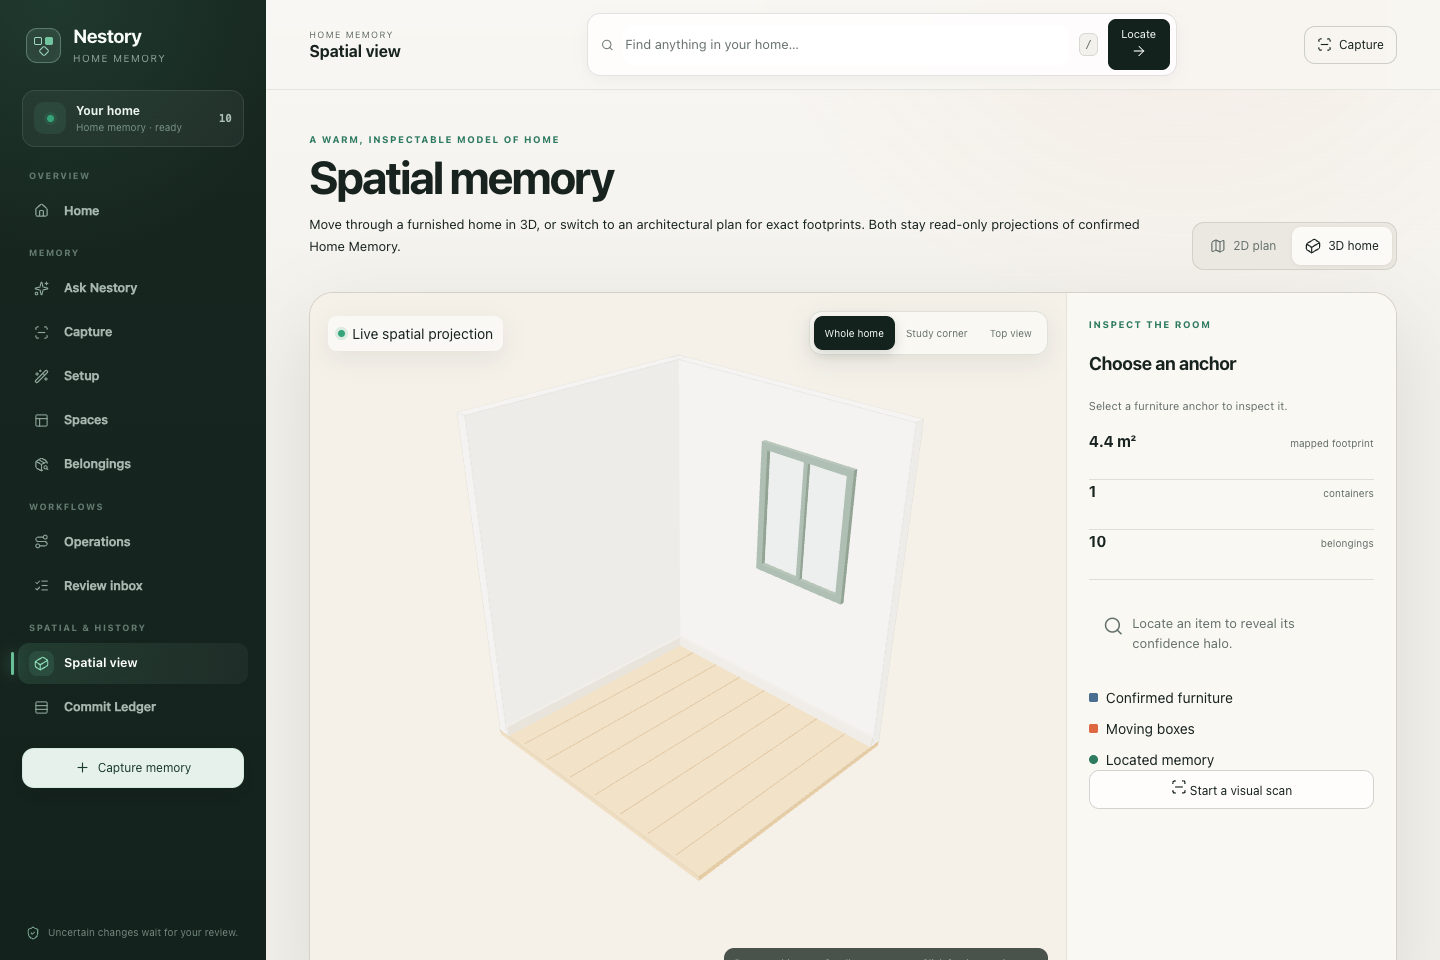
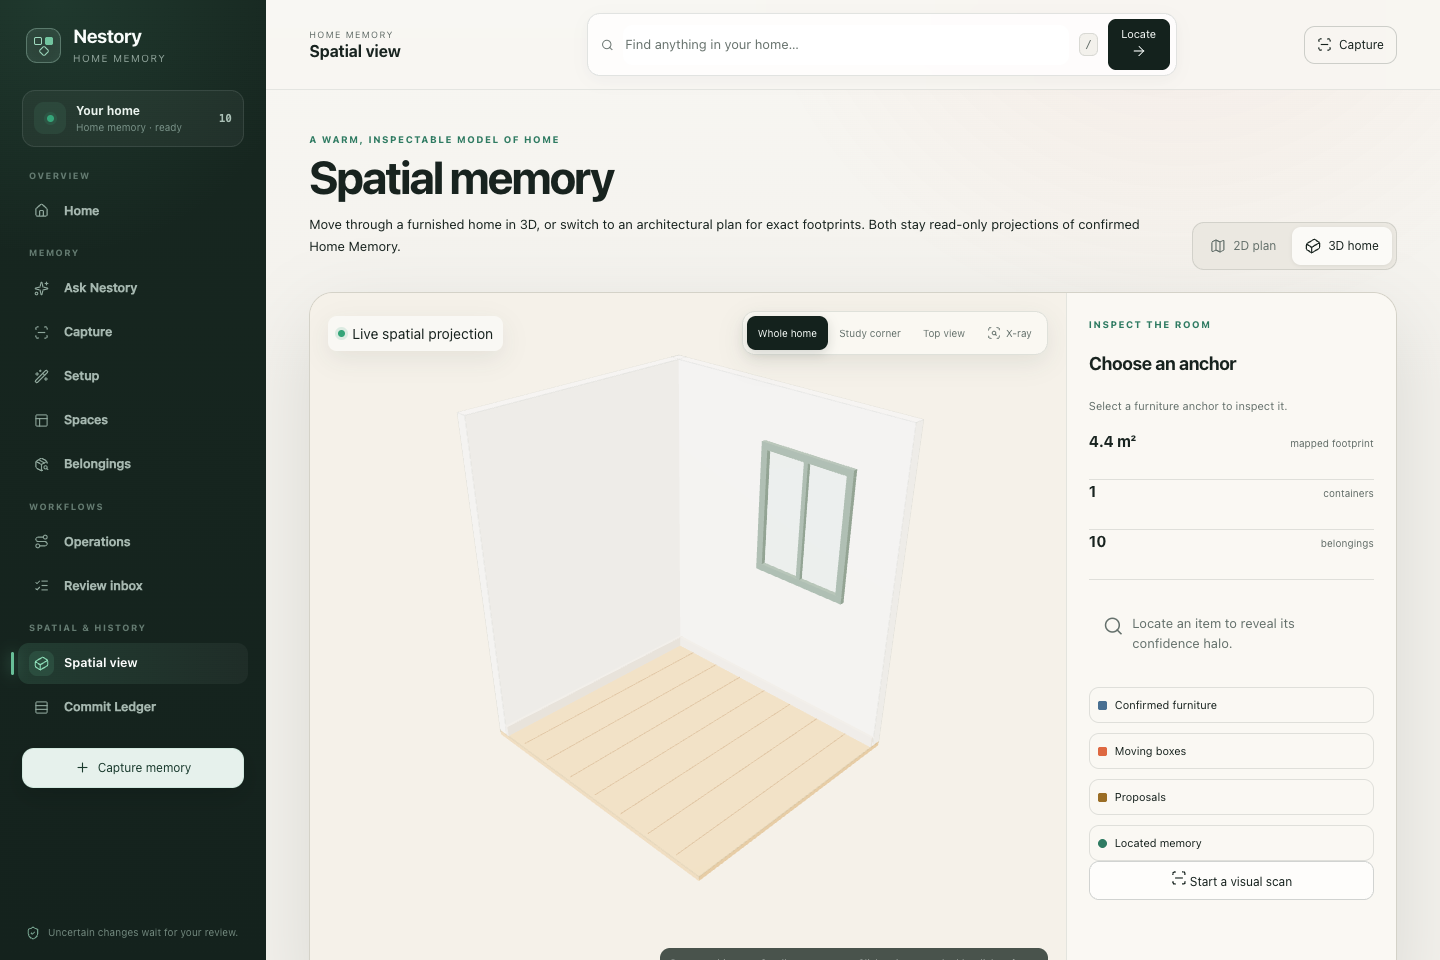
feat(spatial): layer visibility toggles + X-ray transparency (ticket 05)
Parent scene content into furniture/boxes/proposals/pin Groups. The inspector
legend is now functional toggle buttons (spatial-layer command flips
group.visible); a new X-ray button (spatial-xray command) drops wall + furniture
opacity for a see-through review model. Both are view-local UI state
(ui.spatialLayers / ui.spatialXray), never Store writes and never in the scene
payload; each toggle fires one scheduleRender and re-quiesces to zero RAF.

Telemetry: data-spatial-layer-<name>, data-spatial-xray. Uses the in-subset
scan-search lucide icon.
verify 468/468 (2 new: layer hides group, x-ray changes transparency; RAF still 0).

diff --git a/prototype-v2/src/spatial.ts b/prototype-v2/src/spatial.ts
@@ -818,19 +818,29 @@ export function mountSpatialScene(container: HTMLElement, data: SpatialSceneData
   const { solid: solidObjects, proposals: proposalObjects } = sceneObjects(data);
   renderer.domElement.dataset.spatialLabelSize = proposalObjects.length ? `${LABEL_TEXTURE_WIDTH}x${LABEL_TEXTURE_HEIGHT}` : "0x0";
 
+  // Parented layer groups so the inspector legend can toggle whole layers on/off.
+  // View-local visibility only — never Place Graph truth, never in the scene payload.
+  const furnitureLayer = new Group(); furnitureLayer.name = "layer:furniture";
+  const boxLayer = new Group(); boxLayer.name = "layer:boxes";
+  const proposalLayer = new Group(); proposalLayer.name = "layer:proposals";
+  const pinLayer = new Group(); pinLayer.name = "layer:pin";
+  content.add(furnitureLayer, boxLayer, proposalLayer, pinLayer);
+  const layerGroups: Record<string, Group> = { furniture: furnitureLayer, boxes: boxLayer, proposals: proposalLayer, pin: pinLayer };
+
   const furnitureMaterials = createFurnitureMaterials();
   const interactiveMeshes: Mesh[] = [];
   const objectRoots = new Map<string, Group>();
   const objectData = new Map(solidObjects.map((object) => [object.id, object]));
   const archetypes = new Set<SpatialArchetype>();
   for (const object of solidObjects) {
-    const built = addSpatialObject(content, object, furnitureMaterials);
+    const layer = object.kind === "box" ? boxLayer : furnitureLayer;
+    const built = addSpatialObject(layer, object, furnitureMaterials);
     interactiveMeshes.push(...built.interactiveMeshes);
     objectRoots.set(object.id, built.root);
     archetypes.add(object.archetype ?? (object.kind === "box" ? "box" : "block"));
   }
-  for (const proposal of proposalObjects) addProposalObject(content, proposal);
-  if (data.pin) addPin(content, data.pin);
+  for (const proposal of proposalObjects) addProposalObject(proposalLayer, proposal);
+  if (data.pin) addPin(pinLayer, data.pin);
   renderer.domElement.dataset.spatialArchetypes = [...archetypes].sort().join(",");
 
   const gridSize = Math.max(4, Math.ceil(Math.max(size.x, size.z) + 2));
@@ -1174,16 +1184,63 @@ export function mountSpatialScene(container: HTMLElement, data: SpatialSceneData
     container.dispatchEvent(new CustomEvent<SpatialViewPreset>("spatial-preset-change", { bubbles: true, detail: preset }));
   };
 
+  // X-ray: drop wall + furniture/box opacity so the user can see through the
+  // dollhouse to boxes/items behind near walls. Pure render-state, one flag.
+  let xrayOn = false;
+  const setXray = (on: boolean): void => {
+    if (on === xrayOn) return;
+    xrayOn = on;
+    const apply = (root: Object3D, opacity: number, matchWallsOnly: boolean): void => {
+      root.traverse((node: Object3D) => {
+        const mesh = node as Mesh;
+        if (!mesh.isMesh || !mesh.material) return;
+        if (matchWallsOnly && !mesh.name.includes(":wall:")) return;
+        const materials = Array.isArray(mesh.material) ? mesh.material : [mesh.material];
+        for (const material of materials) {
+          const std = material as MeshStandardMaterial;
+          if (std.userData["baseOpacity"] === undefined) std.userData["baseOpacity"] = std.opacity;
+          const base = std.userData["baseOpacity"] as number;
+          std.transparent = on ? true : base < 1;
+          std.opacity = on ? Math.min(base, opacity) : base;
+          std.needsUpdate = true;
+        }
+      });
+    };
+    apply(content, 0.16, true);      // walls
+    apply(furnitureLayer, 0.34, false);
+    apply(boxLayer, 0.4, false);
+    renderer.domElement.dataset.spatialXray = String(on);
+    scheduleRender();
+  };
+
+  const layerDatasetKey = (layer: string): string => `spatialLayer${layer.charAt(0).toUpperCase()}${layer.slice(1)}`;
+
   const onSurfaceCommand = (event: Event): void => {
-    const command = event as CustomEvent<{ type?: string; preset?: SpatialViewPreset; id?: string }>;
+    const command = event as CustomEvent<{ type?: string; preset?: SpatialViewPreset; id?: string; layer?: string; visible?: boolean; on?: boolean }>;
     if (command.detail?.type === "preset" && (command.detail.preset === "home" || command.detail.preset === "study" || command.detail.preset === "top")) {
       applyPreset(command.detail.preset);
     } else if (command.detail?.type === "select") {
       setSelected(command.detail.id ?? null, { focus: true });
+    } else if (command.detail?.type === "layer" && command.detail.layer) {
+      const layer = command.detail.layer;
+      const group = layerGroups[layer];
+      if (group) {
+        group.visible = command.detail.visible ?? !group.visible;
+        renderer.domElement.dataset[layerDatasetKey(layer)] = String(group.visible);
+        scheduleRender();
+      }
+    } else if (command.detail?.type === "xray") {
+      setXray(command.detail.on ?? !xrayOn);
     }
   };
   container.addEventListener("spatial-command", onSurfaceCommand);
   cleanupStack.push(() => container.removeEventListener("spatial-command", onSurfaceCommand));
+
+  // Publish initial layer/xray telemetry so the DOM can reflect current state.
+  for (const [name, group] of Object.entries(layerGroups)) {
+    renderer.domElement.dataset[layerDatasetKey(name)] = String(group.visible);
+  }
+  renderer.domElement.dataset.spatialXray = "false";
 
   const pickObjectId = (event: MouseEvent): string | null => {
     const rect = renderer.domElement.getBoundingClientRect();

diff --git a/prototype-v2/src/app.ts b/prototype-v2/src/app.ts
@@ -168,6 +168,8 @@ interface UIState {
   planMode: PlanMode;
   spatialPreset: "home" | "study" | "top";
   spatialSelectedId: string | null;
+  spatialLayers: { furniture: boolean; boxes: boolean; proposals: boolean; pin: boolean };
+  spatialXray: boolean;
   scanDraft: ScanDraft | null;
   captureMedia: { room: PhotoMedia | null; container: PhotoMedia | null };
   captureDrafts: CaptureDrafts;
@@ -194,6 +196,8 @@ const ui: UIState = {
   planMode: "3d",
   spatialPreset: "home",
   spatialSelectedId: null,
+  spatialLayers: { furniture: true, boxes: true, proposals: true, pin: true },
+  spatialXray: false,
   scanDraft: null,
   captureMedia: { room: null, container: null },
   captureDrafts: {
@@ -235,7 +239,12 @@ let scanMediaReadToken = 0;
 let focusModalOnRender = false;
 let focusViewOnRender = false;
 
-function dispatchSpatialCommand(detail: { type: "preset"; preset: UIState["spatialPreset"] } | { type: "select"; id: string }): void {
+function dispatchSpatialCommand(detail:
+  | { type: "preset"; preset: UIState["spatialPreset"] }
+  | { type: "select"; id: string }
+  | { type: "layer"; layer: "furniture" | "boxes" | "proposals" | "pin"; visible: boolean }
+  | { type: "xray"; on: boolean }
+): void {
   const surface = document.querySelector<HTMLElement>('[data-testid="plan-3d"][data-spatial-scene]');
   surface?.dispatchEvent(new CustomEvent("spatial-command", { detail }));
 }
@@ -1858,9 +1867,10 @@ function renderPlan(): string {
           <div class="scene-label"><span class="live-dot"></span> Live spatial projection</div>
           <div class="spatial-preset-bar" role="group" aria-label="Camera view">
             ${(["home", "study", "top"] as const).map((preset) => `<button type="button" data-action="spatial-preset" data-preset="${preset}" aria-pressed="${ui.spatialPreset === preset}">${preset === "home" ? "Whole home" : preset === "study" ? "Study corner" : "Top view"}</button>`).join("")}
+            <button type="button" class="xray-toggle" data-action="spatial-xray" aria-pressed="${ui.spatialXray}" title="See through walls"><i data-lucide="scan-search"></i>X-ray</button>
           </div>
         </div>
-        <div class="spatial-hint"><span>Drag to orbit</span><span>Scroll to zoom</span><span>Click furniture to inspect</span></div>
+        <div class="spatial-hint"><span>Drag to orbit</span><span>Scroll to zoom</span><span>Click to inspect · double-click to focus</span></div>
       </div>
       <aside class="spatial-inspector">
         <div class="step-kicker">Inspect the room</div>
@@ -1875,7 +1885,10 @@ function renderPlan(): string {
         </div>
         <div class="metric-stack"><div><strong>${roomArea.toFixed(1)} m²</strong><span>mapped footprint</span></div><div><strong>${store.containersView().length}</strong><span>containers</span></div><div><strong>${store.searchBelongings("").length}</strong><span>belongings</span></div></div>
         ${a?.ok ? `<div class="located-summary"><i data-lucide="map-pin"></i><span><strong>${esc(a.item)}</strong><small>${esc(a.chainText)} · confidence ${a.confidence.toFixed(2)}</small></span></div>` : a ? `<div class="located-summary uncertain"><i data-lucide="circle-help"></i><span><strong>No trusted match</strong><small>${esc(a.sentence)}</small></span></div>` : `<div class="located-summary muted"><i data-lucide="search"></i><span>Locate an item to reveal its confidence halo.</span></div>`}
-        <div class="layer-list"><span><i class="layer furniture"></i>Confirmed furniture</span><span><i class="layer box"></i>Moving boxes</span><span><i class="layer memory"></i>Located memory</span></div>
+        <div class="layer-list" role="group" aria-label="Scene layers">
+          ${([["furniture", "Confirmed furniture"], ["boxes", "Moving boxes"], ["proposals", "Proposals"], ["pin", "Located memory"]] as const).map(([key, label]) =>
+            `<button type="button" class="layer-toggle" data-action="spatial-layer" data-layer="${key}" aria-pressed="${ui.spatialLayers[key]}"><i class="layer ${key === "boxes" ? "box" : key === "pin" ? "memory" : key}"></i>${label}</button>`).join("")}
+        </div>
         <button data-action="nav" data-view="capture"><i data-lucide="scan-line"></i> Start a visual scan</button>
       </aside>
     </div>` : `<div class="plan-wrap">
@@ -2186,6 +2199,21 @@ document.addEventListener("click", (e) => {
       // State-first: update selection + DOM directly so it works in 2D mode and
       // when no live 3D surface exists; also drive the scene when it is mounted.
       if (id) applySpatialSelection(id, { dispatchToScene: true });
+      break;
+    }
+    case "spatial-layer": {
+      const layer = t.dataset.layer;
+      if (layer === "furniture" || layer === "boxes" || layer === "proposals" || layer === "pin") {
+        ui.spatialLayers[layer] = !ui.spatialLayers[layer];
+        t.setAttribute("aria-pressed", String(ui.spatialLayers[layer]));
+        dispatchSpatialCommand({ type: "layer", layer, visible: ui.spatialLayers[layer] });
+      }
+      break;
+    }
+    case "spatial-xray": {
+      ui.spatialXray = !ui.spatialXray;
+      t.setAttribute("aria-pressed", String(ui.spatialXray));
+      dispatchSpatialCommand({ type: "xray", on: ui.spatialXray });
       break;
     }
     case "run-room-scan": {

diff --git a/prototype-v2/src/verify.ts b/prototype-v2/src/verify.ts
@@ -2102,6 +2102,36 @@ async function runBrowserSmoke(): Promise<void> {
     })`);
     assert("spatial-hover-sets-cursor-and-outline", hoverAffordance.cursor === "pointer" && hoverAffordance.hovered.length > 0, JSON.stringify(hoverAffordance));
 
+    // Layer toggles flip a whole group's visibility via a view-local command, and
+    // X-ray drops wall/furniture opacity — both without remounting or writing state.
+    const layerToggle = await evalPage<{ before: string; after: string; restored: string }>(`new Promise((resolve) => {
+      const canvas = document.querySelector('[data-testid="plan-3d"] canvas');
+      const btn = document.querySelector('[data-action="spatial-layer"][data-layer="boxes"]');
+      if (!canvas || !(btn instanceof HTMLElement)) { resolve({ before: "missing", after: "missing", restored: "missing" }); return; }
+      const read = () => canvas.getAttribute('data-spatial-layer-boxes') ?? '';
+      const before = read();
+      btn.click();
+      requestAnimationFrame(() => requestAnimationFrame(() => {
+        const after = read();
+        btn.click();
+        requestAnimationFrame(() => requestAnimationFrame(() => resolve({ before, after, restored: read() })));
+      }));
+    })`);
+    assert("spatial-layer-toggle-hides-group", layerToggle.before === "true" && layerToggle.after === "false" && layerToggle.restored === "true", JSON.stringify(layerToggle));
+
+    const xrayToggle = await evalPage<{ before: string; after: string }>(`new Promise((resolve) => {
+      const canvas = document.querySelector('[data-testid="plan-3d"] canvas');
+      const btn = document.querySelector('[data-action="spatial-xray"]');
+      if (!canvas || !(btn instanceof HTMLElement)) { resolve({ before: "missing", after: "missing" }); return; }
+      const before = canvas.getAttribute('data-spatial-xray') ?? '';
+      btn.click();
+      requestAnimationFrame(() => requestAnimationFrame(() => resolve({ before, after: canvas.getAttribute('data-spatial-xray') ?? '' })));
+    })`);
+    assert("spatial-xray-toggle-changes-transparency", xrayToggle.before === "false" && xrayToggle.after === "true", JSON.stringify(xrayToggle));
+    // Reset x-ray so the screenshot + later tests see the default opaque scene.
+    await evalPage(`document.querySelector('[data-action="spatial-xray"][aria-pressed="true"]')?.click()`);
+    await sleep(80);
+
     // Switch to the 2D plan: furniture must be selectable and drive the SAME shared
     // selection (bidirectional parity), and work without a live 3D surface.
     await evalPage(`window.nestory.ui.planMode = "2d"; window.nestory.render()`);

diff --git a/prototype-v2/nestory.css b/prototype-v2/nestory.css
@@ -200,7 +200,16 @@ label > span { display: block; margin-bottom: 4px; color: var(--ink-soft); font-
 .layer-list span { align-items: center; gap: 8px; }
 .layer { display: inline-block; width: 9px; height: 9px; border-radius: 2px; background: var(--blue); }
 .layer.box { background: var(--accent); }
+.layer.proposals { background: var(--amber); }
 .layer.memory { border-radius: 50%; background: var(--sage); }
+.layer-toggle { display: flex; align-items: center; gap: 8px; padding: 6px 8px; border: 1px solid transparent; border-radius: var(--radius-sm); background: transparent; color: var(--ink-soft); font-size: 11px; text-align: left; transition: background .18s ease, border-color .18s ease, opacity .18s ease; }
+.layer-toggle:hover { background: var(--paper-2); }
+.layer-toggle[aria-pressed="false"] { opacity: .5; }
+.layer-toggle[aria-pressed="false"] .layer { background: var(--line-strong); }
+.layer-toggle[aria-pressed="true"] { color: var(--ink); border-color: var(--line); }
+.xray-toggle { display: inline-flex; align-items: center; gap: 5px; }
+.xray-toggle[aria-pressed="true"] { background: var(--sidebar); color: #f6fbf8; box-shadow: 0 4px 12px rgba(20,37,29,.16); }
+.xray-toggle svg { width: 14px; height: 14px; }
 .trust-note { display: flex; align-items: center; gap: 10px; }
 .answer-card.uncertain { border-left-color: var(--amber); }
 .answer-meta { display: flex; flex-wrap: wrap; }

diff --git a/prototype-v2/renders/verification-report.md b/prototype-v2/renders/verification-report.md
@@ -1,12 +1,12 @@
 # Nestory V2 Verification Report
-Generated: 2026-08-17T13:47:43.305Z
+Generated: 2026-08-17T13:57:08.872Z
 Runtime: node v26.3.1 · typescript strict
-- Assertions: 466
-- Passed: 466
+- Assertions: 468
+- Passed: 468
 - Failed: 0
 - Browser smoke: ran
-- UI DOM-commit p95: 2.300 ms
-- Household UI DOM-commit p95: 6.000 ms
+- UI DOM-commit p95: 2.400 ms
+- Household UI DOM-commit p95: 5.800 ms
 - Presentation latency is measured separately by `npm run browser-benchmark`; this correctness harness does not treat headless RAF scheduling as paint evidence.
 - Settled spatial RAF callbacks observed: 0
 - Screenshots: nestory-welcome.png, nestory-mobile-welcome.png, nestory-home.png, nestory-review.png, nestory-operations-move.png, nestory-operations-kit.png, nestory-plan-3d.png, nestory-plan.png, nestory-capture-scan.png, nestory-spaces.png, nestory-ask.png, nestory-mobile-more.png, nestory-mobile-capture.png, nestory-mobile-review.png, nestory-mobile-plan.png, nestory-mobile-plan-2d.png, nestory-mobile-belongings.png, nestory-mobile-home.png, nestory-setup.png, nestory-own-home.png, nestory-boot-recovery.png
@@ -370,6 +370,8 @@ Runtime: node v26.3.1 · typescript strict
 - ✓ `spatial-selection-does-not-remount-canvas`
 - ✓ `spatial-selection-uses-fitted-outline`
 - ✓ `spatial-hover-sets-cursor-and-outline`
+- ✓ `spatial-layer-toggle-hides-group`
+- ✓ `spatial-xray-toggle-changes-transparency`
 - ✓ `plan-2d-furniture-is-interactive`
 - ✓ `plan-2d-selection-works-without-live-3d`
 - ✓ `plan-2d-selection-shows-outline`

diff --git a/.scratch/spatial-review-polish/issues/05-layers-and-xray.md b/.scratch/spatial-review-polish/issues/05-layers-and-xray.md
@@ -1,7 +1,7 @@
 # 05 - Layer visibility toggles + X-ray transparency
 
 Type: implementation
-Status: ready-for-agent
+Status: done
 Blocked by: 02
 
 Parent scene content into Groups (furniture / boxes / proposals / pin) and wire the decorative inspector legend to a `spatial-command {type:"layer"}` handler that flips `group.visible` and fires exactly one render. Add a `{type:"xray"}` handler that drops wall + furniture material opacity for a see-through review model. Keep both states view-local (like `ui.spatialSelectedId`); never persist them into Store/Place Graph or the scene payload.
